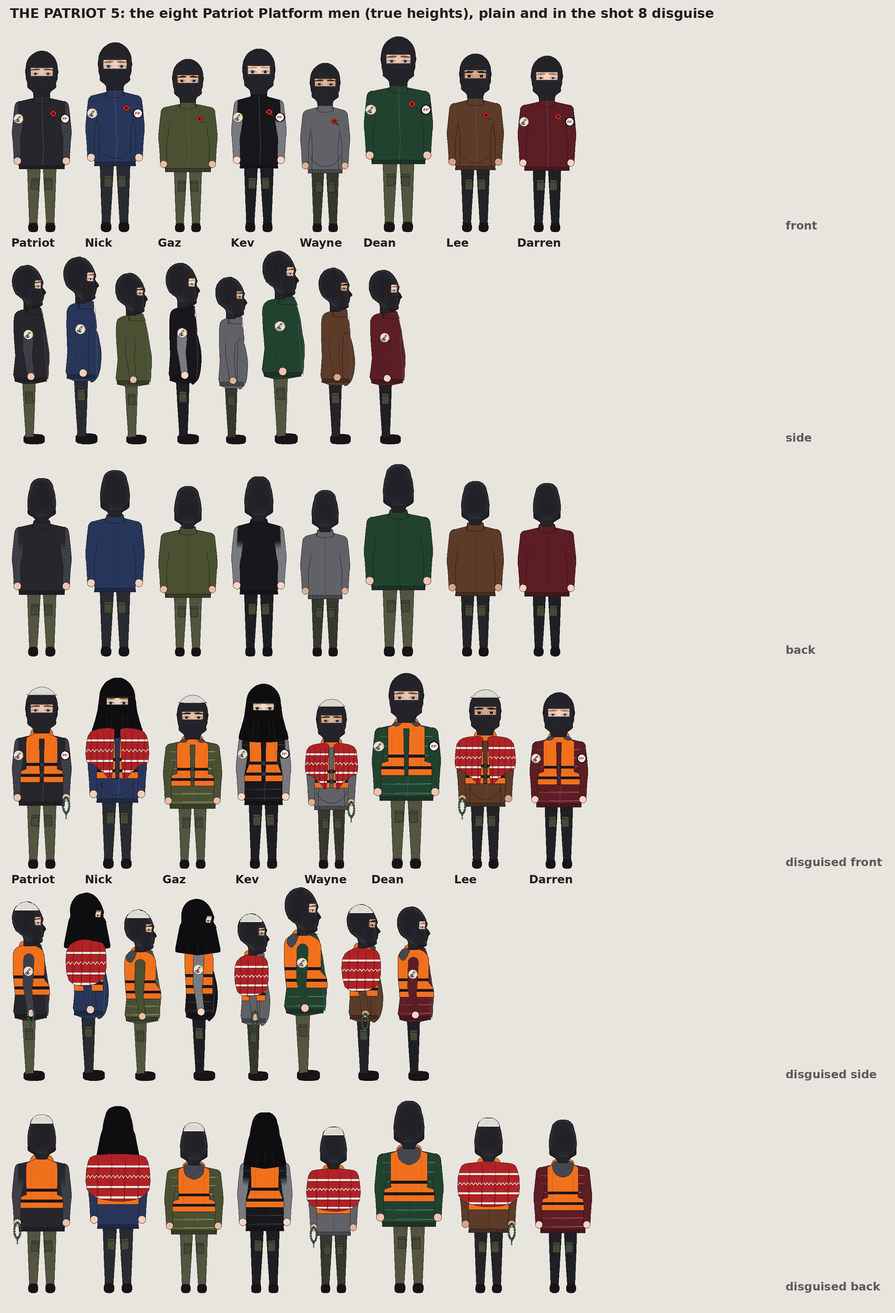
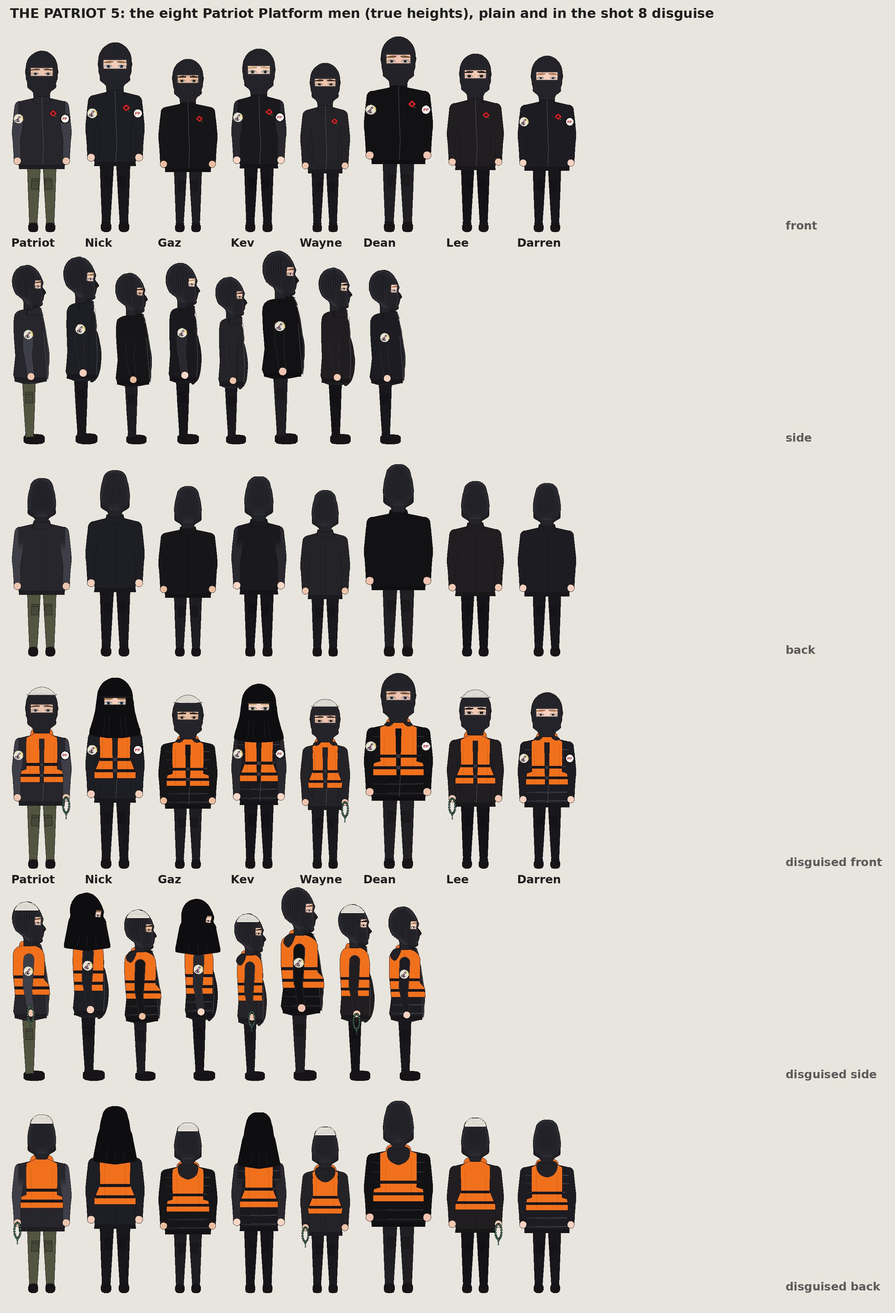
Patriot 5 notes 5-8: crew in black protest gear, Patriot at the boat's bow, Danny is Daniel Thomas; whophotos check
Claude-Session: https://claude.ai/code/session_01J1JB7XFjNaMZvDPXYfbPw3

diff --git a/source/patriots5_cast.py b/source/patriots5_cast.py
@@ -61,31 +61,36 @@ def patriot(mood='rest'):
 # head under the balaclava (only eyes and brows show, so each man's eyes, brows and the skin round them differ), the
 # Patriot's jacket cut in each man's own dark shade, varied heights and builds, so eight read as eight at phone size.
 CREW = [   # name, height, build (figure, shoulders), jacket, sleeve, trousers, eyes, brows, skin round the eyes, eye size
-    dict(name='Nick', height=1.86, figure=None, shoulders=158, jacket=(40, 54, 92), sleeve=(40, 54, 92),
-         trousers=(40, 44, 50), iris=(70, 110, 150), brow=(150, 110, 70), skin=(244, 206, 186), eye=1.15),
-    dict(name='Gaz', height=1.70, figure='stout', shoulders=176, jacket=(74, 80, 50), sleeve=(74, 80, 50),
-         trousers=P3.COMBAT, iris=(70, 50, 36), brow=(40, 30, 26), skin=(236, 190, 160), eye=1.05),
-    dict(name='Kev', height=1.80, figure=None, shoulders=150, jacket=(24, 24, 28), sleeve=(120, 122, 128),
-         trousers=(28, 30, 36), iris=(90, 120, 90), brow=(196, 160, 110), skin=(250, 214, 198), eye=1.3),
-    dict(name='Wayne', height=1.66, figure=None, shoulders=146, jacket=(96, 98, 104), sleeve=(96, 98, 104),
-         trousers=(54, 56, 46), iris=(60, 44, 34), brow=(60, 44, 34), skin=(226, 178, 148), eye=1.0),
-    dict(name='Dean', height=1.92, figure='stout', shoulders=184, jacket=(34, 66, 48), sleeve=(34, 66, 48),
-         trousers=P3.COMBAT, iris=(80, 100, 130), brow=(120, 84, 56), skin=(240, 196, 176), eye=1.1),
-    dict(name='Lee', height=1.75, figure=None, shoulders=162, jacket=(92, 60, 40), sleeve=(92, 60, 40),
-         trousers=(36, 36, 40), iris=(56, 40, 30), brow=(30, 24, 22), skin=(214, 166, 134), eye=1.2),
-    dict(name='Darren', height=1.73, figure='stout', shoulders=170, jacket=(92, 30, 36), sleeve=(92, 30, 36),
-         trousers=(30, 32, 38), iris=(110, 130, 150), brow=(176, 120, 84), skin=(248, 210, 192), eye=0.95),
+    # Sam, 28 Nov: "Give them all the black outfit used in the protests" (references/patriots5/dover: black hoodies and
+    # jackets, black joggers, black trainers, faces covered): every man in near-black, each a slightly different black
+    # so they still read as eight; all white British men (Sam, 28 Nov), so the skin round the eyes stays fair.
+    dict(name='Nick', height=1.86, figure=None, shoulders=158, jacket=(30, 31, 36), sleeve=(30, 31, 36),
+         trousers=(24, 24, 28), iris=(70, 110, 150), brow=(150, 110, 70), skin=(244, 206, 186), eye=1.15),
+    dict(name='Gaz', height=1.70, figure='stout', shoulders=176, jacket=(22, 22, 24), sleeve=(22, 22, 24),
+         trousers=(30, 30, 34), iris=(70, 50, 36), brow=(40, 30, 26), skin=(236, 190, 160), eye=1.05),
+    dict(name='Kev', height=1.80, figure=None, shoulders=150, jacket=(26, 26, 30), sleeve=(40, 40, 46),
+         trousers=(22, 22, 26), iris=(90, 120, 90), brow=(196, 160, 110), skin=(250, 214, 198), eye=1.3),
+    dict(name='Wayne', height=1.66, figure=None, shoulders=146, jacket=(36, 36, 40), sleeve=(36, 36, 40),
+         trousers=(26, 26, 30), iris=(60, 44, 34), brow=(60, 44, 34), skin=(238, 196, 172), eye=1.0),
+    dict(name='Dean', height=1.92, figure='stout', shoulders=184, jacket=(18, 18, 20), sleeve=(18, 18, 20),
+         trousers=(32, 32, 36), iris=(80, 100, 130), brow=(120, 84, 56), skin=(240, 196, 176), eye=1.1),
+    dict(name='Lee', height=1.75, figure=None, shoulders=162, jacket=(32, 30, 32), sleeve=(32, 30, 32),
+         trousers=(20, 20, 24), iris=(56, 40, 30), brow=(30, 24, 22), skin=(242, 202, 180), eye=1.2),
+    dict(name='Darren', height=1.73, figure='stout', shoulders=170, jacket=(28, 28, 34), sleeve=(28, 28, 34),
+         trousers=(24, 24, 28), iris=(110, 130, 150), brow=(176, 120, 84), skin=(248, 210, 192), eye=0.95),
 ]
+HOOD = (34, 34, 38)          # their hoods black too (the protest photos: black hoods up over the face coverings)
 # Brief row 17 (Sam's words, the news photos): the disguise each wears in shot 8. At least two in niqabs; white caps
-# on some; the red-and-white blanket on some; prayer beads in one hand; orange life jackets on all; hoods, puffers.
+# on some; prayer beads in one hand; orange life jackets on all. Sam, 28 Nov: "remove the scarf. Keep life jacket"
+# (the red-and-white blanket round the shoulders is gone from everyone).
 DISGUISE = {'Patriot': dict(kufi=True, beads='R'),
-            'Nick': dict(niqab=True, blanket=True),
-            'Gaz': dict(kufi=True, puffer=True, hood=True),
+            'Nick': dict(niqab=True),
+            'Gaz': dict(kufi=True, puffer=True, hood=HOOD),
             'Kev': dict(niqab=True, puffer=True),
-            'Wayne': dict(kufi=True, blanket=True, beads='R'),
-            'Dean': dict(hood=True, puffer=True),
-            'Lee': dict(kufi=True, beads='L', blanket=True),
-            'Darren': dict(hood=True, puffer=True)}   # (his red jacket would swallow the red blanket)
+            'Wayne': dict(kufi=True, beads='R', hood=HOOD),
+            'Dean': dict(hood=HOOD, puffer=True),
+            'Lee': dict(kufi=True, beads='L'),
+            'Darren': dict(hood=HOOD, puffer=True)}
 
 
 def _jacket_in(col):
@@ -100,7 +105,7 @@ def _jacket_in(col):
     return draw
 
 
-def crew(i, disguised=False):
+def crew(i, disguised=False, kit=None):
     """Crew man i (0-6: CREW) as (sp, j); disguised: brief row 17's kit over his outfit (DISGUISE)."""
     import views as V
     c = CREW[i]
@@ -120,7 +125,7 @@ def crew(i, disguised=False):
     j['_dressed'] = True
     if disguised:
         import disguise
-        sp, j = disguise.dress(sp, j, DISGUISE[c['name']])
+        sp, j = disguise.dress(sp, j, kit if kit is not None else DISGUISE[c['name']])
     return sp, j
 
 
@@ -137,10 +142,10 @@ def grey_man():
     return sp, j
 
 
-def patriot_disguised(mood='rest'):
+def patriot_disguised(mood='rest', kit=None):
     import disguise
     sp, j = patriot(mood)
-    return disguise.dress(sp, j, DISGUISE['Patriot'])
+    return disguise.dress(sp, j, kit if kit is not None else DISGUISE['Patriot'])
 
 
 _READY = []
@@ -272,19 +277,60 @@ def _crop(tile, bg):
     return tile.crop((xs.min() - 6, ys.min() - 6, xs.max() + 7, ys.max() + 7))
 
 
+def _carry(sp, j):
+    """The man as the boat and the tower take him: his clothes and kit ride in sp['_dress'] (they rebuild his pose)."""
+    sp = dict(sp)
+    sp['_dress'] = {k: j[k] for k in ('body_props', 'head_props', 'props', '_dressed') if k in j}
+    return sp
+
+
+def boat_men():
+    """Shot 8's eight in the boat (Sam, 28 Nov: "Include The Patriot in the boat, at the front"), disguised: the near
+    row first (left to right), the far row after. The far row stands half a place ahead, so its last place is the
+    very front of the boat (the boat walks left to right): the Patriot's, with Wayne (the shortest) in front of him in
+    the near row so his head and badges show. The tall men stand in the far row, their heads over the near row."""
+    order = ['Darren', 'Gaz', 'Lee', 'Wayne', 'Kev', 'Nick', 'Dean', 'Patriot']
+
+    def kit(name, near):
+        # beads only in a hand we see: the near row's near (right) hand on the tube; a far hand is inside the boat,
+        # and beads drawn there would show through the tube (seen 28 Nov, Lee's beads over the near tube)
+        k = dict(DISGUISE[name])
+        k.pop('beads', None)
+        if near and DISGUISE[name].get('beads'):
+            k['beads'] = 'R'
+        return k
+    men = {}
+    for n in order:
+        near = order.index(n) < 4
+        if n == 'Patriot':
+            men[n] = _carry(*patriot_disguised(kit=kit(n, near)))
+        else:
+            men[n] = _carry(*crew([c['name'] for c in CREW].index(n), True, kit=kit(n, near)))
+    return [men[n] for n in order]
+
+
+def tower_men():
+    """Shot 4's tower (brief row 7: all eight), plain: the heaviest at the base, Nick under the Patriot ("Nick's
+    head is up my arse"), the Patriot on top at the window."""
+    sp, j = patriot()
+    men = {c['name']: _carry(*crew(i, False)) for i, c in enumerate(CREW)}
+    men['Patriot'] = _carry(sp, j)
+    order = ['Dean', 'Gaz', 'Darren', 'Lee', 'Kev', 'Wayne', 'Nick', 'Patriot']
+    return [men[n] for n in order]
+
+
 def boat_panel():
-    """The orange walking boat (source/walking_boat.py, its practice crew as stand-ins) beside the Patriot, for size."""
+    """The orange walking boat (source/walking_boat.py) with shot 8's crew in it, disguised, the Patriot at the bow
+    (Sam, 28 Nov: "Include The Patriot in the boat, at the front, not outside it")."""
     import walking_boat as WB
+    install()
     B = WB.B
-    bt = WB.practice_boat(x0=420.0)
+    bt = WB.Boat(boat_men(), WB.S, WB.GROUND_Y, 540.0)
     ss, B.SS = B.SS, 2
     img = B.canvas(WB.NIGHT)
     cam = B.Cam(1.0, 540, 960)
     WB.scene(img, cam, bt.X(0.0), bt)
     bt.draw(img, cam, 0.0)
-    sp, j = patriot()
-    B.SS = 2
-    draw(img, cam, 940, WB.GROUND_Y - 928 * WB.S, WB.S, sp, j, 0)
     B.SS = ss
     return img.resize((1080, 1920), Image.LANCZOS).crop((0, 700, 1080, 1450)).convert('RGBA')
 

diff --git a/source/whophotos.py b/source/whophotos.py
@@ -1,0 +1,52 @@
+#!/usr/bin/env python3
+"""MAP  whophotos: a real person's photos must be OF that person (Patriot 5, 28 Nov). Sam: "You appear to have built
+Tommy Robinson, not Danny Tommo. Different people." The plan chat searched a news site for "Tommo", got photos of
+Tommy Robinson, and filed them as Danny Tommo's; nothing asked whose face each photo shows, so the face tool, the cast
+sheet and the critique all measured the wrong man, and only Sam saw it.
+
+The rule: every photo in references/faces/NAME/ has a line in that folder's who.txt giving the caption it was
+published with, and the caption names the person by one of the names on who.txt's first line (a whole phrase,
+e.g. "Danny Tommo" or "Daniel Thomas"; "Tommy Robinson" does not name Danny Tommo). facepick refuses a new person
+whose folder fails (faults()).
+
+  who.txt:   name: Danny Tommo / Daniel Thomas
+             01-front-bbc.jpg: "Daniel Thomas, known as Danny Tommo, on September 09, 2026, in London" (BBC News)
+  faults(folder) -> list of plain faults (empty: every photo is captioned with the person's name)
+
+    python3 source/whophotos.py FOLDER
+"""
+import os
+import re
+import sys
+
+PHOTO = re.compile(r'\.(jpe?g|png|webp)$', re.I)
+
+
+def faults(folder):
+    p = os.path.join(folder, 'who.txt')
+    photos = sorted(f for f in os.listdir(folder) if PHOTO.search(f))
+    if not os.path.exists(p):
+        return [f'{folder}: no who.txt, so nothing says whose face these {len(photos)} photos show']
+    lines = [ln.strip() for ln in open(p, encoding='utf-8') if ln.strip() and not ln.startswith('#')]
+    if not lines or not lines[0].lower().startswith('name:'):
+        return [f'{p}: the first line must be "name: FULL NAME / OTHER NAME"']
+    names = [n.strip().lower() for n in lines[0].split(':', 1)[1].split('/') if n.strip()]
+    caps = {}
+    for ln in lines[1:]:
+        if ':' in ln:
+            f, c = ln.split(':', 1)
+            caps[f.strip()] = c.strip()
+    out = []
+    for f in photos:
+        c = caps.get(f)
+        if c is None:
+            out.append(f'{f}: no caption in who.txt (whose face is it?)')
+        elif not any(re.search(r'\b' + re.escape(n) + r'\b', c.lower()) for n in names):
+            out.append(f'{f}: its caption does not name {" / ".join(names)}: {c[:90]}')
+    return out
+
+
+if __name__ == '__main__':
+    fs = faults(sys.argv[1])
+    print('\n'.join(fs) or 'whophotos: every photo is captioned with the person\'s name')
+    sys.exit(1 if fs else 0)

diff --git a/source/kittests_body.py b/source/kittests_body.py
@@ -1037,6 +1037,18 @@ def walking_boat_joins():
 
 
 @test
+def real_person_photos_named():
+    """A real person's photos are OF that person (whophotos, Patriot 5, 28 Nov; Sam: "You appear to have built Tommy
+    Robinson, not Danny Tommo. Different people."): the saved wrong folder (Tommy Robinson's photos filed for Danny
+    Tommo) is refused photo by photo; Danny's BBC photos, captioned with his name, pass."""
+    import whophotos
+    root = os.path.join(os.path.dirname(HERE), 'references', 'faces')
+    wrong = whophotos.faults(os.path.join(root, 'robinson-not-danny'))
+    right = whophotos.faults(os.path.join(root, 'tommo'))
+    return len(wrong) == 5 and not right, f'wrong man refused {len(wrong)}/5, right man faults {right}'
+
+
+@test
 def disguise_worn_over():
     """The small-boat disguise (Patriot 5 cast chat 4, 28 Nov; source/disguise.py): (1) the arm stays in front of the
     life jacket: with the shoulder join's KEEP_OVER the side view shows less orange through the upper arm than without

diff --git a/source/walking_boat.py b/source/walking_boat.py
@@ -66,6 +66,12 @@ def _rot(p, a):
     return (p[0] * c - p[1] * s, p[0] * s + p[1] * c)
 
 
+def _dress(sp):
+    """The pose extras a film's man brings with him (sp['_dress']: body_props, head_props, props, kit), copied so a
+    pose never shares a list with another drawing."""
+    return {k: (list(v) if isinstance(v, list) else v) for k, v in sp.get('_dress', {}).items()}
+
+
 class Boat:
     def __init__(self, men, s, ground_y, x0, speed=None):
         """men: 8 person descriptions (near row first 4, far row last 4). s: scale for a 1.78 m man (as views.person).
@@ -123,6 +129,7 @@ class Boat:
             hw = self.W(cx, cy, ang, self.u[i], self.vh[i])
             fr = ST.Frame(k, (0.0, V.HIP_Y), hw, ang)
             j = dict(g)
+            j.update(_dress(self.men[i]))                  # a film's own clothes and kit on the man (sp['_dress'])
             ft = {}
             for sd, sg in (('L', -1), ('R', 1)):
                 fx, fy, fz = g['foot' + sd]

diff --git a/source/facepick.py b/source/facepick.py
@@ -833,6 +833,12 @@ def _others(name, fronts, most=14):
 
 
 def make(name, out_dir, fronts, tq=(), lineup=(), gain=GAIN, says=None, log=print, rounds=ROUNDS):
+    folder = os.path.dirname(os.path.abspath(_split(fronts[0])[0]))
+    if not os.path.isdir(os.path.join(folder, 'pick')):          # a new person (whophotos, Patriot 5, 28 Nov)
+        import whophotos
+        bad = whophotos.faults(folder)
+        if bad:
+            raise SystemExit('facepick: whose face is this? ' + '; '.join(bad))
     os.makedirs(out_dir, exist_ok=True)
     says = says or {}
     F = [_split(a) for a in fronts]

diff --git a/source/patriots3_cast.py b/source/patriots3_cast.py
@@ -695,7 +695,7 @@ def _leg(p, j, side, yaw, sp, from_u=0.0):
         w = 26
         q = [(c0[0] + nx * w, c0[1] + ny * w), (c1[0] + nx * w, c1[1] + ny * w), (c1[0] - nx * w, c1[1] - ny * w),
              (c0[0] - nx * w, c0[1] - ny * w)]
-        p.poly(q, B.dk(COMBAT, 0.86), INK, 2.0)
+        p.poly(q, B.dk(tuple(sp.get('trousers') or COMBAT), 0.86), INK, 2.0)   # the pocket in its own trousers' cloth
         f = (c0[0] + ux * 16, c0[1] + uy * 16)
         p.line([(f[0] + nx * w, f[1] + ny * w), (f[0] - nx * w, f[1] - ny * w)], INK, 1.6)
 

diff --git a/source/shoulder_tower.py b/source/shoulder_tower.py
@@ -153,6 +153,7 @@ class Tower:
         js = []
         for i, sp in enumerate(self.men):
             j = V.standing(sp)
+            j.update({k: (list(v) if isinstance(v, list) else v) for k, v in sp.get('_dress', {}).items()})
             j['hand'] = {}
             j['lean'] = LEAN
             if i == 0:

diff --git a/notes/patriots5.md b/notes/patriots5.md
@@ -9,13 +9,13 @@ The joke (Sam): The Patriot and his crew of balaclava'd PP men try to break Tomm
 
 ## Where things stand (the ONE handover, 15 lines at most: overwrite it at every stage switch; move the old one to notes/archive/FILM-handovers.md)
 - **Locked by Sam:** all 11 shots as the screenplay sets them: cell dead ahead at the cot; side angle; close-up of the grate from inside; side-on outside with the tower; close-up through the grate at Danny; from behind Danny's head; the entrance with the two officers; the four 180s (boat, officers, Patriot, officers).
-- **Rules that bite next:** 38 (front, side, back), 49 (Danny's likeness), 89 (critique: cast stage r1-p1 done; one more hunt allowed).
-- **Done:** the Patriot approved (sheet v3). Plan chat: brief, shots, estimate 15.4%, Danny's face pick B. Tower practice (chat 2: clip v2 awaits Sam's OK). Boat practice (chat 3: awaits Sam's notes). Cast chat 4 (28 Nov): cast sheets sent, animations/drafts/patriot-5-cast-sheet-1.jpg (Danny, officers, boat) and -2.jpg (the eight men plain and disguised). Danny: face B; hair fixed to a short top with faded sides, ginger-brown stubble; grey tracksuit, white trainers; likeness 66% on photo m01, 55% on m02 (it reads only 4 measures there), nothing the wrong way; slumped on the cot, at the bars (outside, side, behind). Officers: Blessed's. Crew: 7 men, 1.66-1.92 m, each jacket its own colour. Disguise (row 17): niqabs on Nick and Kev; prayer caps on Patriot, Gaz, Wayne, Lee; blankets on Nick, Wayne, Lee; beads on Patriot, Wayne, Lee; life jackets on all; puffers and hoods on some. Critique r1-p1: shades, wall, window, labels, blanket folds fixed; stubble, beads, hoods were false alarms (small panels).
-- **Next:** first, the handover check's two STOPs left by cast chat 4 (it hit amber): officer 2 (guard2) has no build measured from photos (find a reference photo of a woman prison officer, measure it as notes/learn/kemi-build/measure.py does, into references/patriots5/guard2-build.json) and no blind judge has read the cast's outlines (judge.py's way, notes/judge/patriots5-cast.json). Then Sam's notes on the cast sheets (Opus, medium: a round of notes). Then sets (Opus, high: new views): the cell (4 cameras; the real cot and the bunk he stands on: the sheet's bench is a stand-in), the outside wall with the grate, the gatehouse; then the shot board.
-- **Needs Sam:** notes or Y on the cast sheets; tower clip v2; boat practice notes; the Hook Text (blank until he gives it).
-- **Read:** guides/job-packs.md, Build (sets: its Sets lines); guides/figure-rig.md 5; brief rows 1-22 and References here.
-- **Open rule requests:** none. Branches with old, unrelated work, named, not merged: claude/jolly-ramanujan-2lcl2o, claude/upbeat-dirac-w16tn9, claude/gta-v5-sound-draft, claude/gta-chat46-build, claude/dreamy-fermi-vkhutz, claude/gta-chat31. The plan chat's kit test run (start of film) lands on the main line; not rerun here.
-- **For Claude:** Danny and the officers = story/patriots5-people.txt (people kit); crew = patriots5_cast.crew(i, disguised), patriot_disguised(), CREW, DISGUISE; poses danny_slumped / danny_window; sheets `python3 source/patriots5_cast.py cast OUT_DIR`; disguise kit source/disguise.py (kittest disguise_worn_over); boat = walking_boat.Boat; Patriot = patriots5_cast.patriot(mood).
+- **Rules that bite next:** 49 (Danny's likeness: now the right man), 3 (benchmark the places), 1 (the plan in metres).
+- **Done (notes chat 5, 28 Nov):** notes 5-8. Crew all in black protest gear, blanket gone, life jackets kept; the boat now carries the eight real men with the Patriot at the bow (sheet 2 and the boat panel redrawn). Danny is Daniel Thomas, not Tommy Robinson: wrong photos moved to references/faces/robinson-not-danny; BBC photos in references/faces/tommo with who.txt; whophotos check and its kittest built and passing.
+- **Next:** Danny's face from straight-on photos once Sam sends them (Opus medium: facepick tommo, then the people file's tommo block); then sets in film order (Opus high): story/patriots5-places.txt from Blessed's prison place (cell: cot against the back wall, window above it, moonlight; the side view; the grate from inside and out; the outside wall; the gatehouse and its reverse), new kinds in source/places_rooms.py drawn through a['piece'].P (as places_site.py does); then the film file source/patriots5.py on source/brexit_is_done.py's pattern; then the shot board.
+- **Needs Sam:** 2-3 straight-on photos of Danny; the Patriot's own outfit (keep or black); tower clip v2 and boat practice notes (the crew in them are now the real men); the Hook Text (blank until he gives it).
+- **Read:** guides/job-packs.md, Build (Sets lines); brief rows 1-22 here.
+- **Open rule requests:** none. Branches named, not merged (old, unrelated): claude/jolly-ramanujan-2lcl2o, claude/upbeat-dirac-w16tn9, claude/gta-v5-sound-draft, claude/gta-chat46-build, claude/dreamy-fermi-vkhutz, claude/gta-chat31. Handover STOPs from cast chat 4 (guard2's measured build, the blind judge on the cast) still open.
+- **For Claude:** boat = walking_boat.Boat(patriots5_cast.boat_men(), WB.S, WB.GROUND_Y, x0); tower = shoulder_tower.Tower(patriots5_cast.tower_men(), ground, s); a man's clothes ride in sp['_dress']; crew(i, disguised, kit); patriot_disguised(mood, kit); sheets `python3 source/patriots5_cast.py cast OUT_DIR`.
 
 ## Plan extras (rules 24-26, 54, 55): ambition estimate as a table, one row per new build and risky move, each with
 its own share of a week and, for anything split into parts, how its ending looks and which parts the camera sees
@@ -131,6 +131,10 @@ Columns as in notes/_template.md (status, should have caught, critique saw it?: 
 | 2 | cast sheet | back, 3/4 back | "explain the greying out of the sleeves? You did that with Blair too" | seen before (Blair) | none: the shoulder join (limbs.py, the arm fading into the body near the shoulder) assumes the sleeve is the jacket's cloth; a grey sleeve on a black body fades as a smear | no critique | answered; fix waits for Sam's Y (a hard shoulder seam where the sleeve's colour differs from the body's) |
 | 3 | cast sheet | side, three-quarter | "Fix your notes": my named faults (collar a box beside the neck with a zip in the air; the chin's dark V) | new | none (I named them myself, unfixed) | no critique | fixed: the knit's neck stops at the collar so the collar wraps round it; zip and hem fitted to the stout body; ribs stop above the chin's bottom rings. Check: kittest collar_band_every_view (the collar box, after note 4); the chin's V: no check yet, it needs a test of the knit's ribs against the chin's outline |
 | 4 | cast sheet | all but front | "what is the grey box at the neck? It isn't on the front pose but it is with all the others" | new | none: my turned knit neck was shortened (note 3) and uncovered Patriots 3's flat lighter collar block; I looked at the collar side on only | no critique | fixed (redesign chat 2): the collar a band in the jacket's own black wrapped round the neck's foot, every view including the front (front knit neck now stops at the band); shared source/collars.py stand_band (sp collar='band'), Patriots 3 unchanged; check: kittest collar_band_every_view (catches the old box in 4 of 5 views, passes the band); sheet v3 sent |
+| 5 | cast sheet | Danny | "You appear to have built Tommy Robinson, not Danny Tommo. Different people." | new | none: the plan chat searched the Mirror for "Tommo", got Tommy Robinson's photos and filed them as Danny's; nothing asked whose face a photo shows. Check built: source/whophotos.py (every photo's published caption must name the person; facepick refuses a new person otherwise), kittest real_person_photos_named, its saved example references/faces/robinson-not-danny | no critique | in hand: Danny Tommo is Daniel Thomas (BBC: Patriot Platform leader, the Dover protests, the dinghy slashing); 3 BBC photos filed (references/faces/tommo, who.txt); all show him turned to one side, and the face tool measures only straight-on photos: waiting on Sam for 2-3 straight-on photos |
+| 6 | boat, tower | crew | "The other people in the boat and tower need to be Patriot Platform members just like our main character. All white British men, different but in the same or similar outfit to the Patriot. Analyse Dover protests for references." | new | none: the boat panel and both practice clips used the practice stand-ins (the crowd pack), never the film's crew | no critique | fixed: Boat and Tower take the film's men with their clothes (sp['_dress']); patriots5_cast.boat_men() and tower_men(); Dover refs: references/patriots5/dover (BBC, 13 photos: black hoodies, black joggers, balaclavas, hoods up); Lee's and Wayne's skin round the eyes fairer |
+| 7 | boat | Patriot | "Include The Patriot in the boat, at the front, not outside it." | new | none (the panel put him beside the boat for size) | no critique | fixed: the Patriot in the far row's front place, the bow; Wayne (shortest) in front of him in the near row; beads only in a near hand on the tube (a far hand's beads showed through the tube) |
+| 8 | cast sheet 2 | crew | "Give them all the black outfit used in the protests and remove the scarf. Keep life jacket. Otherwise good work there." | new | none | no critique | fixed: all seven in near-black (each a slightly different black), black hoods; the red-and-white blanket gone from everyone; life jackets kept; cargo pockets now in each man's own trouser colour (patriots3_cast: they stayed olive on black). Open: the Patriot keeps his approved jacket and olive combats (question to Sam) |
 
 Decisions made (kept so a long session or a new session never has to rediscover them):
 - Sam's words to the plan chat, 27 Nov, carried: "Ask permission for big uk news sites and I'll grant it" (reference photos: ask him first; the Mirror photos were used); "It is a joke that targets them, not the Muslims" (row 17, the disguise); the tower "has been used in animation plenty" (row 7); the Hook Text: "Leave that blank until I provide it"; "Make the Allahu Akbar stumbling yet sincere. Like he's trying to play a role he's not used to, all of a sudden" (row 19, acting list).
@@ -146,4 +150,4 @@ Decisions made (kept so a long session or a new session never has to rediscover 
 
 Screenplay and title: given 27 Nov 2026 (the film's start: kit tests, rule 90)
 
-Cost line (recorded every handover; shown to Sam only on a problem): film so far 12.75% of a week (2026-11-28)
+Cost line (recorded every handover; shown to Sam only on a problem): film so far 12.75% of a week before notes chat 5 (2026-11-28); the rows still to do in the estimate add about 11.7%, so the film is heading for about 25% against the 15% aim: told Sam, 28 Nov

diff --git a/story/status.md b/story/status.md
@@ -1,3 +1,3 @@
-patriots5 (The Patriot 5): cast sheets sent (Danny, two officers, the eight men plain and disguised, the boat); 12.75% of a week spent of 15.4%.
-Done: plan; Patriot approved; tower and boat practice clips sent; cast chat 4: Danny's faded hair and stubble, prison tracksuit, poses; 7 crew; the small-boat disguise kit.
-Next: two handover STOPs (officer 2's measured build, the blind judge), then Sam's notes on the cast sheets (Opus medium); then sets.
+patriots5 (The Patriot 5): notes chat 5: crew in black protest gear, Patriot in the boat at the front; Danny is Daniel Thomas (right photos found).
+Done: notes 5-8; whophotos check (whose face a photo shows) built and tested.
+Next: Danny face from straight-on photos (waiting on Sam), then sets in film order toward the animatic.
